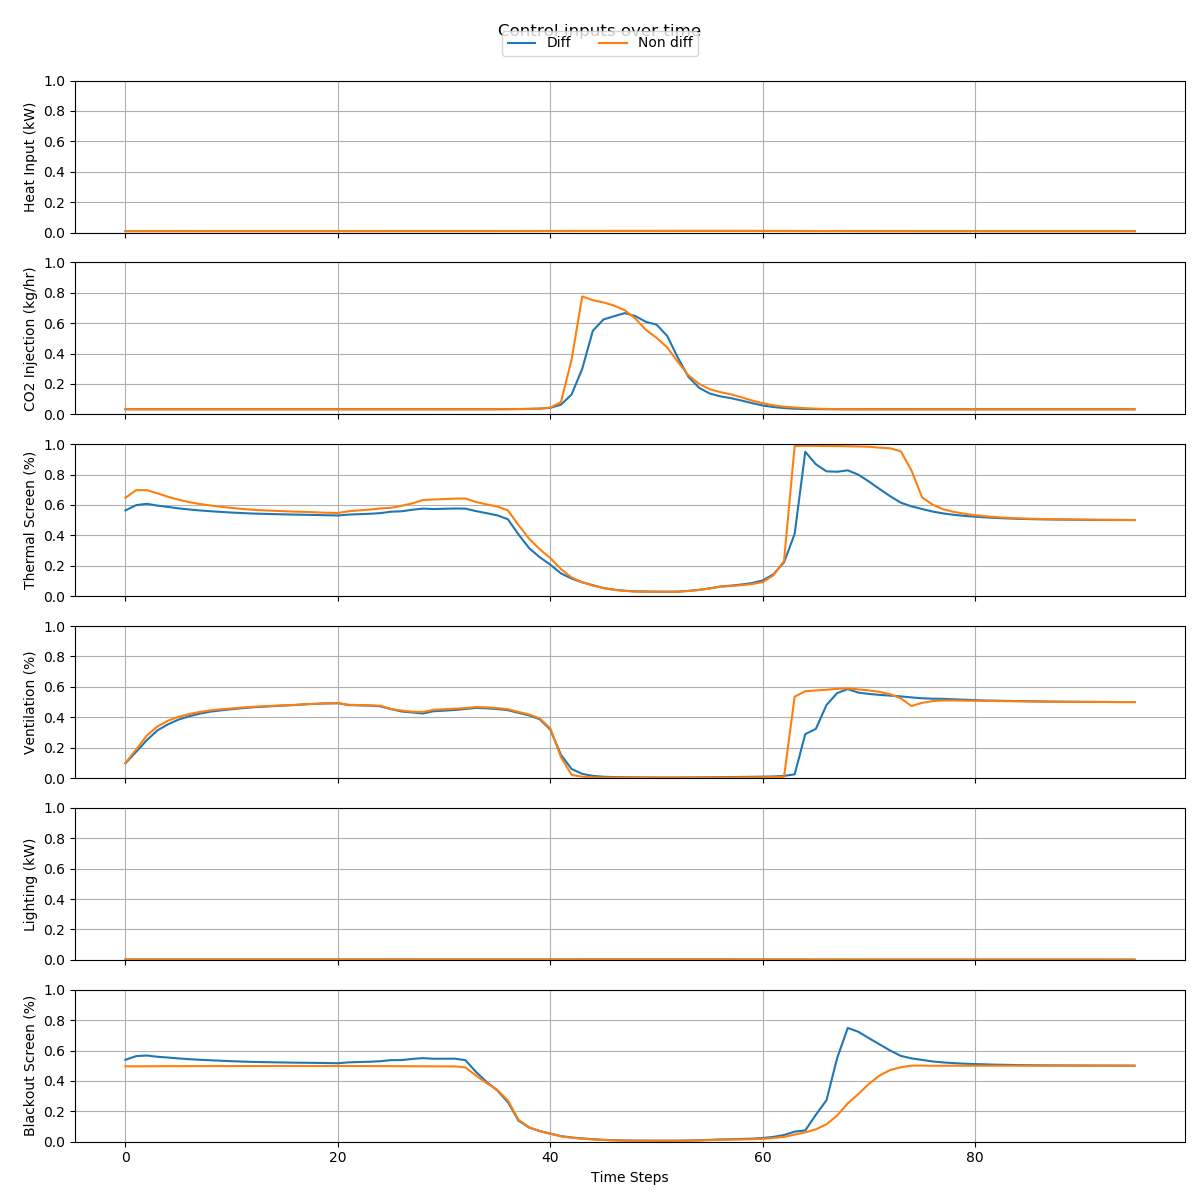
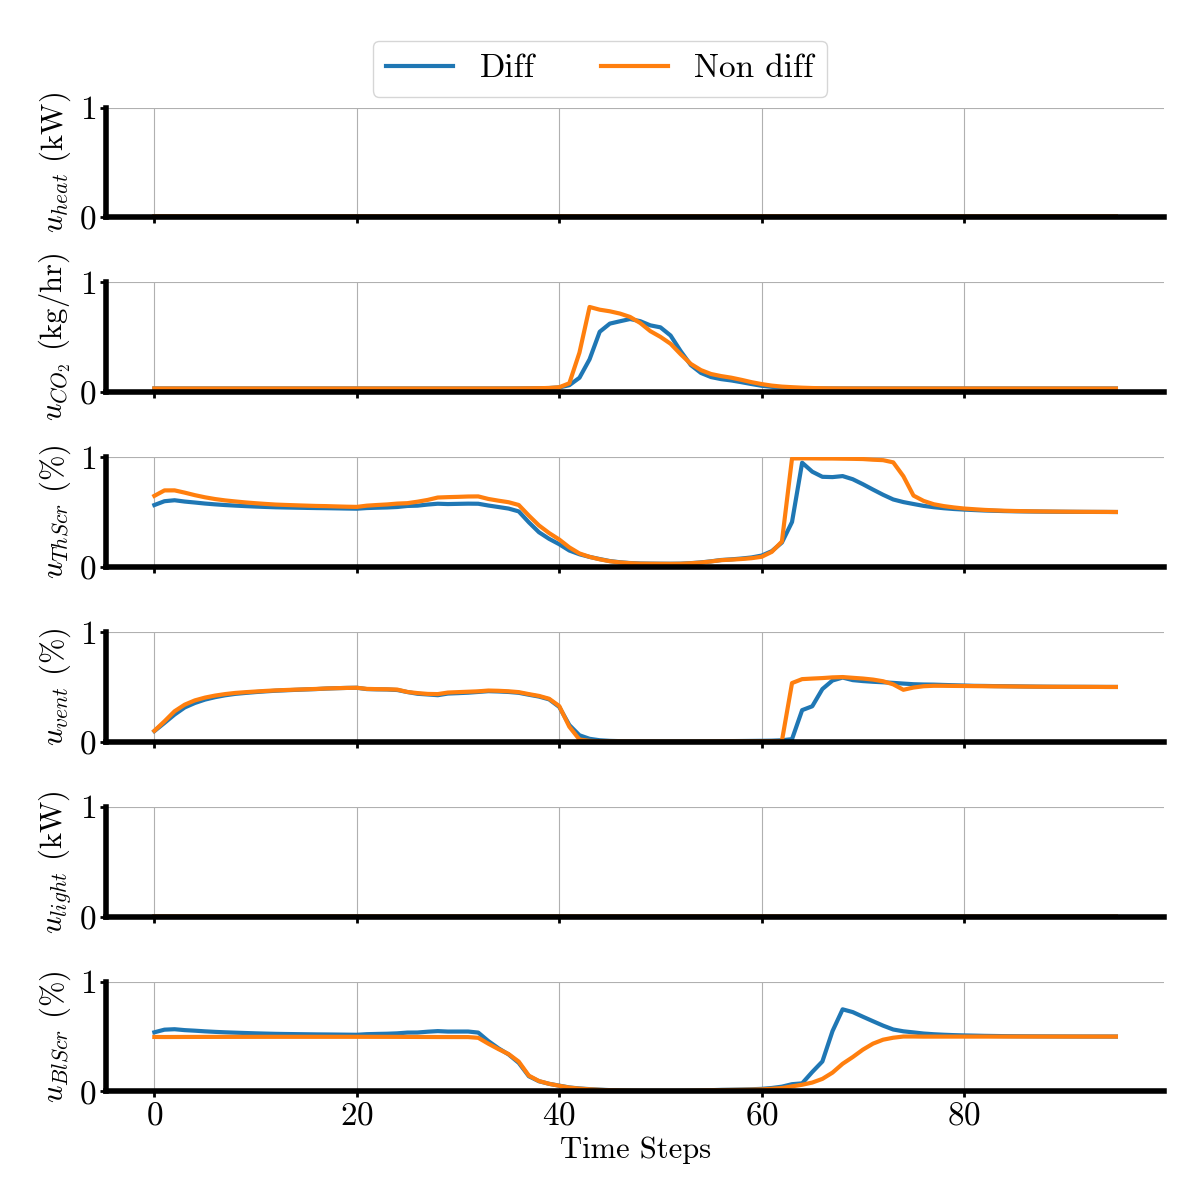
more readable figures

diff --git a/greenlight/visualise_trajectories.py b/greenlight/visualise_trajectories.py
@@ -1,100 +1,132 @@
+import argparse
+
 import pandas as pd
 import matplotlib.pyplot as plt
 
-month = 'june'
+### Latex font in plots
+plt.rcParams['font.serif'] = "cmr10"
+plt.rcParams['font.family'] = "serif"
+plt.rcParams['font.size'] = 24
 
-# Load state variable data
-path = f'data/{month}/'
-states_diff = pd.read_csv(path + 'states-OL.csv', header=None).T
-states_non_diff = pd.read_csv(path + 'states-OL-non-diff.csv', header=None).T
+plt.rcParams['legend.fontsize'] = 24
+plt.rcParams['legend.loc'] = 'upper right'
+plt.rcParams['axes.labelsize'] = 22
+plt.rcParams['axes.formatter.use_mathtext'] = True
+plt.rcParams['xtick.labelsize'] = 24
+plt.rcParams['ytick.labelsize'] = 24
+plt.rcParams['text.usetex'] = False
+plt.rcParams['mathtext.fontset'] = 'cm'
+plt.rcParams["axes.grid"] = False
+plt.rcParams['svg.fonttype'] = 'none'
+plt.rcParams['axes.linewidth'] = 4   # Default for all spines
+plt.rcParams['axes.spines.top'] = False
+plt.rcParams['axes.spines.right'] = False
+# plt.rcParams['text.usetex'] = True
+plt.rcParams['lines.linewidth'] = 3
+plt.rcParams['xtick.major.size'] = 4  # Thicker major x-ticks
+plt.rcParams['xtick.major.width'] = 2  # Thicker major x-
+plt.rcParams['ytick.major.size'] = 4  
+plt.rcParams['ytick.major.width'] = 2 
+plt.rc('axes', unicode_minus=False)
 
-# Select rows for comparison
-cols_to_compare = [0, 2, 15, 25]
-states_diff_selected = states_diff.iloc[cols_to_compare]
-states_non_diff_selected = states_non_diff.iloc[cols_to_compare]
+if __name__ == '__main__':
+    parser = argparse.ArgumentParser()
+    parser.add_argument('--month', type=str, default='january', help='Month to visualise')
+    args = parser.parse_args()
+    month = args.month
 
-# Plot state variables
-time_steps = list(range(states_diff.shape[1]))
-fig, axes = plt.subplots(len(cols_to_compare), 1, figsize=(12, 10), sharex=True)
+    # Load state variable data
+    path = f'data/{month}/'
+    states_diff = pd.read_csv(path + 'states-OL.csv', header=None).T
+    states_non_diff = pd.read_csv(path + 'states-OL-non-diff.csv', header=None).T
 
-state_labels_with_units = {
-    0: "CO2 (mg/m³)",
-    2: "Air Temperature (°C)",
-    15: "VP (kg/m²)",
-    25: "Fruit Weight (mg{DW}/m²)"
-}
+    # Select rows for comparison
+    cols_to_compare = [0, 2, 15, 25]
+    states_diff_selected = states_diff.iloc[cols_to_compare]
+    states_non_diff_selected = states_non_diff.iloc[cols_to_compare]
 
-for i, row in enumerate(cols_to_compare):
-    axes[i].plot(time_steps, states_diff_selected.loc[row], label="Diff", linestyle='--')
-    axes[i].plot(time_steps, states_non_diff_selected.loc[row], label="Diff", linestyle='--')
-    axes[i].set_ylabel(state_labels_with_units.get(row, f'State {row}'))
-    axes[i].grid(True)
+    # Plot state variables
+    time_steps = list(range(states_diff.shape[1]))
+    fig, axes = plt.subplots(len(cols_to_compare), 1, figsize=(12, 10), sharex=True)
 
-axes[-1].set_xlabel('Time Steps')
-fig.suptitle('Comparison of Selected State Variables over Time')
-fig.legend(["Diff", "Non diff"], loc='upper center', ncol=2, bbox_to_anchor=(0.5, 0.98))
+    state_labels_with_units = {
+        0: "CO2",
+        2: "Air Temp",
+        15: "VPD",
+        25: "Fruit Weight"
+    }
 
-plt.tight_layout(rect=[0, 0, 1, 0.95])
-fig.savefig(f'figures/{month}/states.png')
+    for i, row in enumerate(cols_to_compare):
+        axes[i].plot(time_steps, states_diff_selected.loc[row], label="Diff", linestyle='--')
+        axes[i].plot(time_steps, states_non_diff_selected.loc[row], label="Diff", linestyle='--')
+        axes[i].set_ylabel(state_labels_with_units.get(row, f'State {row}'))
+        axes[i].grid(True)
 
-# Load control input data
-control_inputs = pd.read_csv(path + 'controls-OL.csv', header=None)
-control_inputs_non_diff = pd.read_csv(path + 'controls-OL-non-diff.csv', header=None)
+    axes[-1].set_xlabel('Time Steps')
+    # fig.suptitle('Comparison of Selected State Variables over Time')
+    fig.legend(["Diff", "Non diff"], loc='upper center', ncol=2, bbox_to_anchor=(0.5, 0.98))
 
-control_labels_with_units = {
-    0: "Heat Input (kW)",
-    1: "CO2 Injection (kg/hr)",
-    2: "Thermal Screen (%)",
-    3: "Ventilation (%)",
-    4: "Lighting (kW)",
-    5: "Blackout Screen (%)"
-}
+    plt.tight_layout(rect=[0, 0, 1, 0.95])
+    fig.savefig(f'figures/{month}/states.png')
 
-# Plot control inputs
-time_steps_control = list(range(control_inputs.shape[0]))
-fig, axes = plt.subplots(len(control_labels_with_units), 1, figsize=(12, 12), sharex=True)
+    # Load control input data
+    control_inputs = pd.read_csv(path + 'controls-OL.csv', header=None)
+    control_inputs_non_diff = pd.read_csv(path + 'controls-OL-non-diff.csv', header=None)
 
-for i, (row, label) in enumerate(control_labels_with_units.items()):
-    axes[i].plot(time_steps_control, control_inputs[row])
-    axes[i].plot(time_steps_control, control_inputs_non_diff[row])
-    axes[i].set_ylabel(label)
-    axes[i].grid(True)
-    axes[i].set_ylim(0, 1)  # Normalise control inputs
+    control_labels_with_units = {
+        0: r"$u_{heat}$ (kW)",
+        1: r"$u_{CO_2}$ (kg/hr)",
+        2: r"$u_{ThScr}$ (%)",
+        3: r"$u_{vent}$ (%)",
+        4: r"$u_{light}$ (kW)",
+        5: r"$u_{BlScr}$ (%)",
+    }
 
-fig.legend(["Diff", "Non diff"], loc='upper center', ncol=2, bbox_to_anchor=(0.5, 0.98))
+    # Plot control inputs
+    time_steps_control = list(range(control_inputs.shape[0]))
+    fig, axes = plt.subplots(len(control_labels_with_units), 1, figsize=(12, 12), sharex=True)
+
+    for i, (row, label) in enumerate(control_labels_with_units.items()):
+        axes[i].plot(time_steps_control, control_inputs[row])
+        axes[i].plot(time_steps_control, control_inputs_non_diff[row])
+        axes[i].set_ylabel(label)
+        axes[i].grid(True)
+        axes[i].set_ylim(0, 1)  # Normalise control inputs
+
+    fig.legend(["Diff", "Non diff"], loc='upper center', ncol=2, bbox_to_anchor=(0.5, 0.98))
 
 
-axes[-1].set_xlabel('Time Steps')
-fig.suptitle('Control inputs over time')
+    axes[-1].set_xlabel('Time Steps')
+    # fig.suptitle('Control inputs over time')
 
-plt.tight_layout(rect=[0, 0, 1, 0.95])
-fig.savefig(f'figures/{month}/controls.png')
+    plt.tight_layout(rect=[0, 0, 1, 0.95])
+    fig.savefig(f'figures/{month}/controls.png')
 
 
-# Load weather data
-weather_data = pd.read_csv(path + 'weather.csv', header=None)
+    # Load weather data
+    weather_data = pd.read_csv(path + 'weather.csv', header=None)
 
-updated_weather_labels = {
-    0: "iGlob [W/m²]",
-    1: "Out temp [°C]",
-    2: "Out VP [Pa]",
-    3: "Out CO2 [mg/m³]",
-    4: "Out wind speed [m/s]",
-    5: "Sky temp [°C]",
-    6: "Out soil temp [°C]"
-}
+    updated_weather_labels = {
+        0: "iGlob",
+        1: "Out temp",
+        2: "Out VP",
+        3: "Out CO2",
+        4: "Out wind speed",
+        5: "Sky temp",
+        6: "Out soil temp "
+    }
 
-# Plot weather variables
-time_steps_weather = list(range(weather_data.shape[0]))
-fig, axes = plt.subplots(len(updated_weather_labels), 1, figsize=(12, 14), sharex=True)
+    # Plot weather variables
+    time_steps_weather = list(range(weather_data.shape[0]))
+    fig, axes = plt.subplots(len(updated_weather_labels), 1, figsize=(12, 14), sharex=True)
 
-for i, (col, label) in enumerate(updated_weather_labels.items()):
-    axes[i].plot(time_steps_weather, weather_data[col])
-    axes[i].set_ylabel(label)
-    axes[i].grid(True)
+    for i, (col, label) in enumerate(updated_weather_labels.items()):
+        axes[i].plot(time_steps_weather, weather_data[col])
+        axes[i].set_ylabel(label)
+        axes[i].grid(True)
 
-axes[-1].set_xlabel('Time Steps')
-fig.suptitle('Weather Variables Over Time')
+    axes[-1].set_xlabel('Time Steps')
+    # fig.suptitle('Weather Variables Over Time')
 
-plt.tight_layout(rect=[0, 0, 1, 0.95])
-fig.savefig(f'figures/{month}/weahter_inputs.png')
+    plt.tight_layout(rect=[0, 0, 1, 0.95])
+    fig.savefig(f'figures/{month}/weahter_inputs.png')
